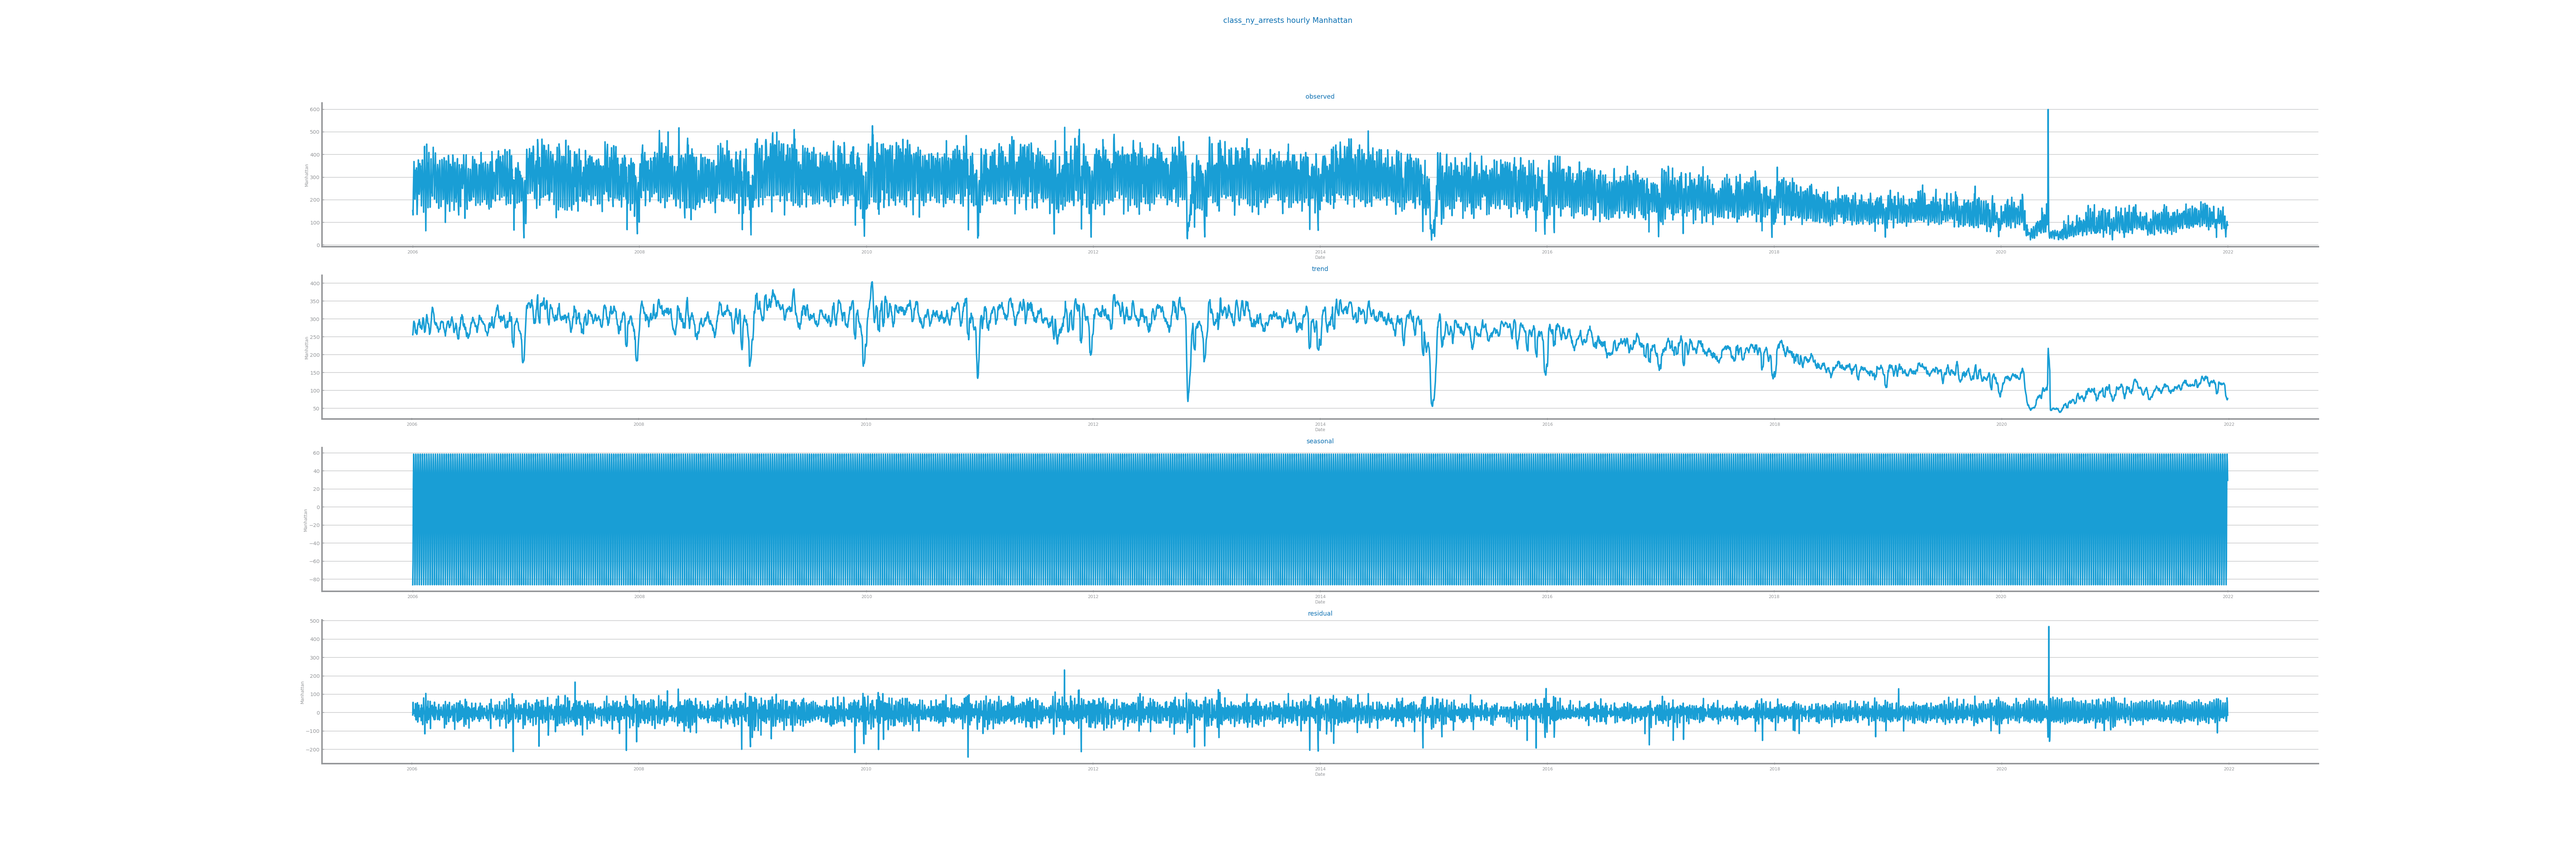
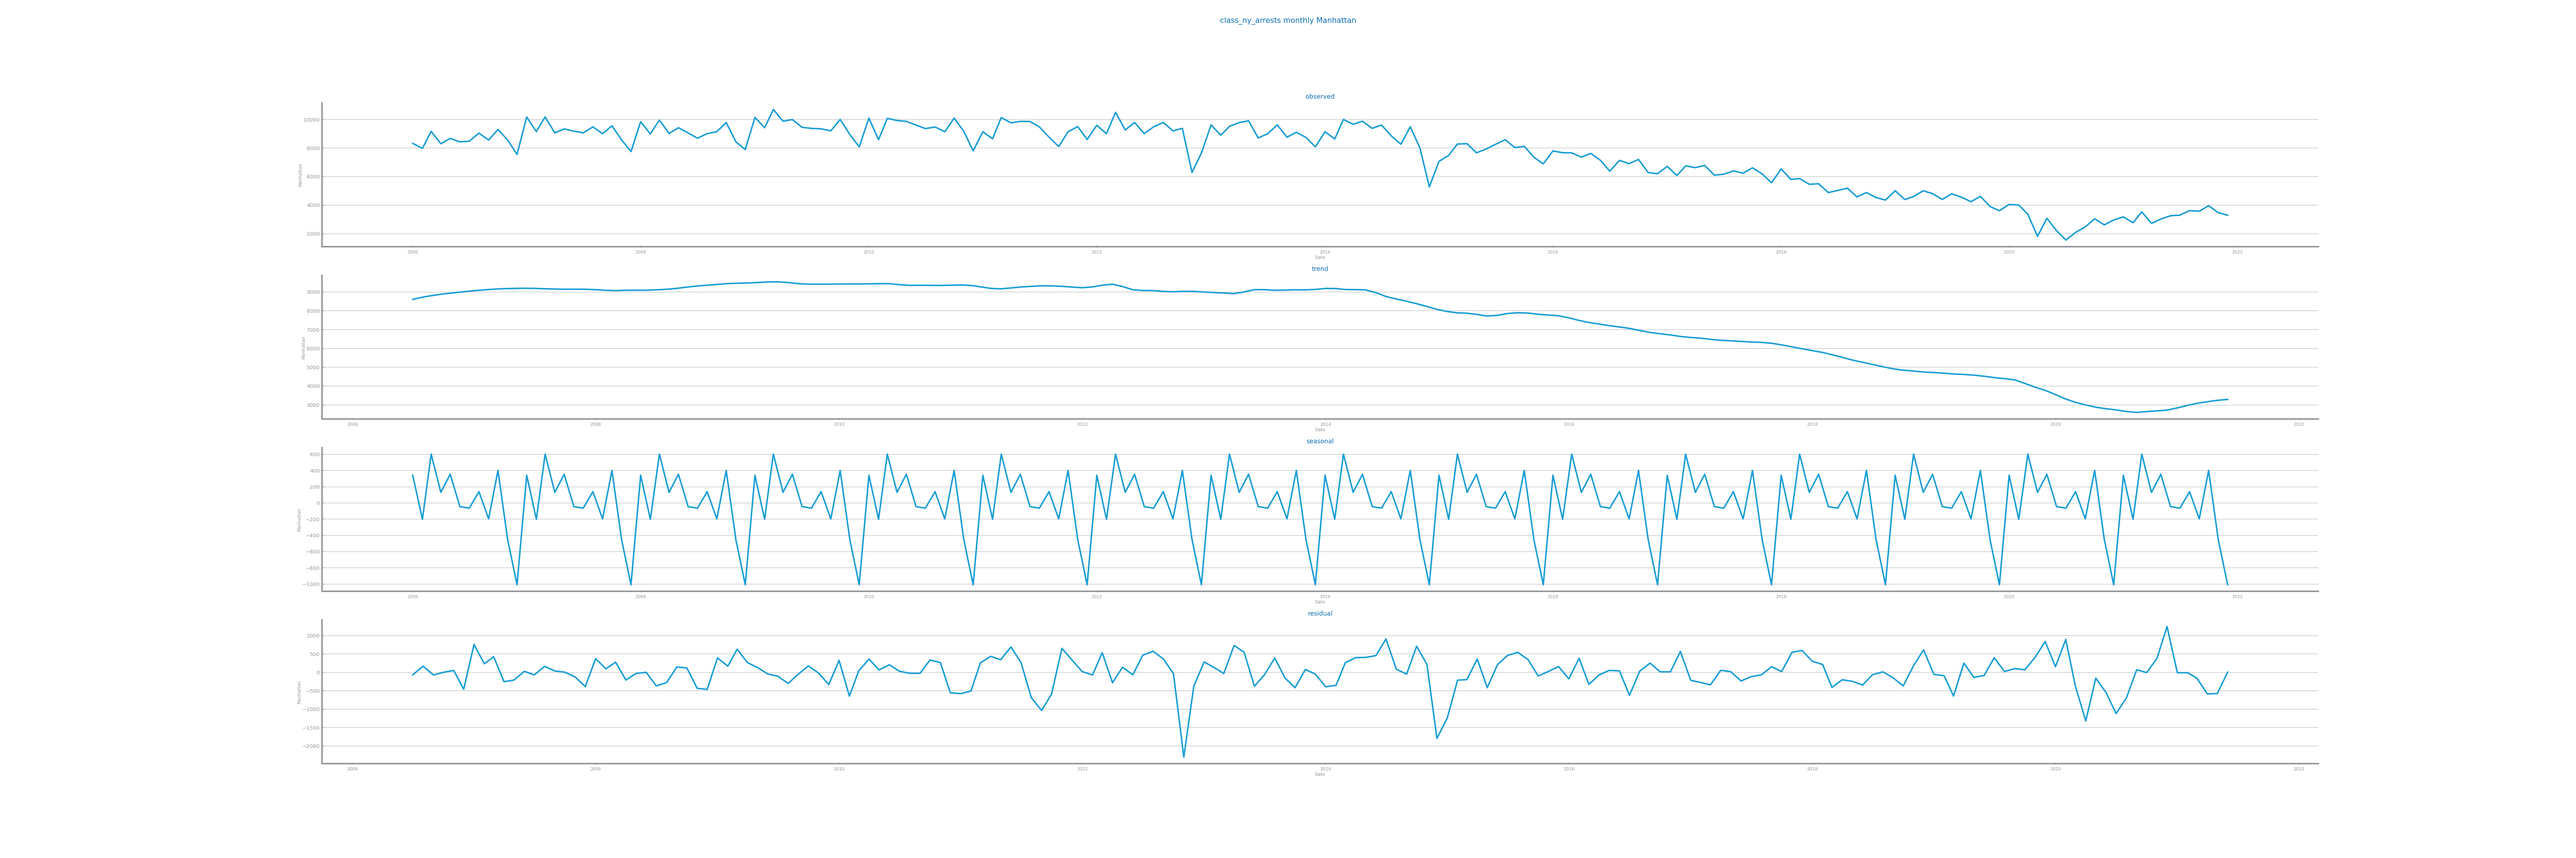
last changes

diff --git a/Forecasting/Analysis/NYC/stationarity.py b/Forecasting/Analysis/NYC/stationarity.py
@@ -3,7 +3,7 @@ from matplotlib.pyplot import subplots, show, gca, figure, show, savefig, plot, 
 from matplotlib.figure import Figure
 from matplotlib.axes import Axes
 from statsmodels.tsa.seasonal import DecomposeResult, seasonal_decompose
-from dslabs_functions import HEIGHT, set_chart_labels, plot_line_chart
+from dslabs_functions import HEIGHT, set_chart_labels, plot_line_chart, ts_aggregation_by
 
 def plot_components(
     series: Series,
@@ -44,11 +44,12 @@ data: DataFrame = read_csv(
     infer_datetime_format=True,
 )
 series: Series = data[target]
+ss_months: Series = ts_aggregation_by(series, gran_level="M", agg_func=sum)
 
 plot_components(
-    series,
-    title=f"{file_tag} hourly {target}",
-    x_label=series.index.name,
+    ss_months,
+    title=f"{file_tag} monthly {target}",
+    x_label=ss_months.index.name,
     y_label=target,
 )
 
@@ -56,15 +57,15 @@ savefig(f"Forecasting/Images/Stationarity/{image_tag}_{file_tag}_components_{tar
 
 figure(figsize=(3 * HEIGHT, HEIGHT))
 plot_line_chart(
-    series.index.to_list(),
-    series.to_list(),
-    xlabel=series.index.name,
+    ss_months.index.to_list(),
+    ss_months.to_list(),
+    xlabel=ss_months.index.name,
     ylabel=target,
     title=f"{file_tag} stationary study",
     name="original",
 )
-n: int = len(series)
-plot(series.index, [series.mean()] * n, "r-", label="mean")
+n: int = len(ss_months)
+plot(ss_months.index, [ss_months.mean()] * n, "r-", label="mean")
 legend()
 
 savefig(f"Forecasting/Images/Stationarity/{image_tag}_{file_tag}_stationary_{target}.png")
@@ -73,23 +74,23 @@ BINS = 10
 mean_line: list[float] = []
 
 for i in range(BINS):
-    segment: Series = series[i * n // BINS : (i + 1) * n // BINS]
+    segment: Series = ss_months[i * n // BINS : (i + 1) * n // BINS]
     mean_value: list[float] = [segment.mean()] * (n // BINS)
     mean_line += mean_value
 mean_line += [mean_line[-1]] * (n - len(mean_line))
 
 figure(figsize=(3 * HEIGHT, HEIGHT))
 plot_line_chart(
-    series.index.to_list(),
-    series.to_list(),
-    xlabel=series.index.name,
+    ss_months.index.to_list(),
+    ss_months.to_list(),
+    xlabel=ss_months.index.name,
     ylabel=target,
     title=f"{file_tag} stationary study",
     name="original",
     show_stdev=True,
 )
-n: int = len(series)
-plot(series.index, mean_line, "r-", label="mean")
+n: int = len(ss_months)
+plot(ss_months.index, mean_line, "r-", label="mean")
 legend()
 
 savefig(f"Forecasting/Images/Stationarity/{image_tag}_{file_tag}_stationary_{target}_mean.png")
@@ -107,4 +108,4 @@ def eval_stationarity(series: Series) -> bool:
     return result[1] <= 0.05
 
 
-print(f"The series {('is' if eval_stationarity(series) else 'is not')} stationary")
+print(f"The series {('is' if eval_stationarity(ss_months) else 'is not')} stationary")

diff --git a/Forecasting/Analysis/NYC/distribution.py b/Forecasting/Analysis/NYC/distribution.py
@@ -4,6 +4,8 @@ from matplotlib.pyplot import figure, show, subplots, savefig, setp
 from dslabs_functions import HEIGHT, plot_line_chart, ts_aggregation_by, set_chart_labels, plot_multiline_chart
 from matplotlib.figure import Figure
 from matplotlib.gridspec import GridSpec
+from sklearn.cluster import KMeans
+import numpy as np
 
 image_tag = "distribution"
 file_tag = "class_ny_arrests"
@@ -76,13 +78,13 @@ def get_lagged_series(series: Series, max_lag: int, delta: int = 1):
 
 
 figure(figsize=(3*HEIGHT, HEIGHT))
-lags = get_lagged_series(series, 20, 10)
-plot_multiline_chart(series.index.to_list(), lags, xlabel=index, ylabel=target)
+lags = get_lagged_series(ss_months, 20, 10)
+plot_multiline_chart(ss_months.index.to_list(), lags, xlabel=index, ylabel=target)
 
 savefig(f"Forecasting/Images/Distribution/{image_tag}_{file_tag}_lags_{target}.png")
 
 
-def autocorrelation_study(series: Series, max_lag: int, delta: int = 1):
+def autocorrelation_study(series: Series, max_lag: int, delta: int = 1, bin_size: int = 25):
     k: int = int(max_lag / delta)
     fig = figure(figsize=(4 * HEIGHT, 2 * HEIGHT), constrained_layout=True)
     gs = GridSpec(2, k, figure=fig)
@@ -91,9 +93,27 @@ def autocorrelation_study(series: Series, max_lag: int, delta: int = 1):
     for i in range(1, k + 1):
         ax = fig.add_subplot(gs[0, i - 1])
         lag = i * delta
-        ax.scatter(series.shift(lag).tolist(), series_values)
+        shifted_values = series.shift(lag).tolist()
+        
+        # Perform binning
+        data = list(zip(shifted_values, series_values))
+        data = np.array(data)
+        data = data[~np.isnan(data).any(axis=1)]  # Remove rows with NaN values
+        
+        # Bin the data
+        binned_data = []
+        for j in range(0, len(data), bin_size):
+            bin_slice = data[j:j + bin_size]
+            if len(bin_slice) > 0:
+                bin_mean = np.mean(bin_slice, axis=0)
+                binned_data.append(bin_mean)
+        binned_data = np.array(binned_data)
+        
+        # Scatter plot with binned data
+        ax.scatter(binned_data[:, 0], binned_data[:, 1])
         ax.set_xlabel(f"lag {lag}")
         ax.set_ylabel("original")
+        
     ax = fig.add_subplot(gs[1, :])
     ax.acorr(series, maxlags=max_lag)
     ax.set_title("Autocorrelation")
